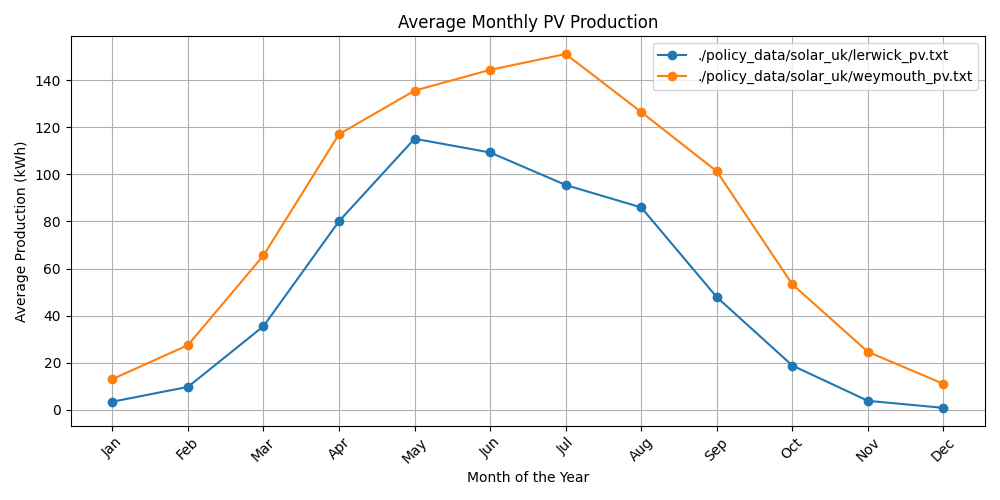
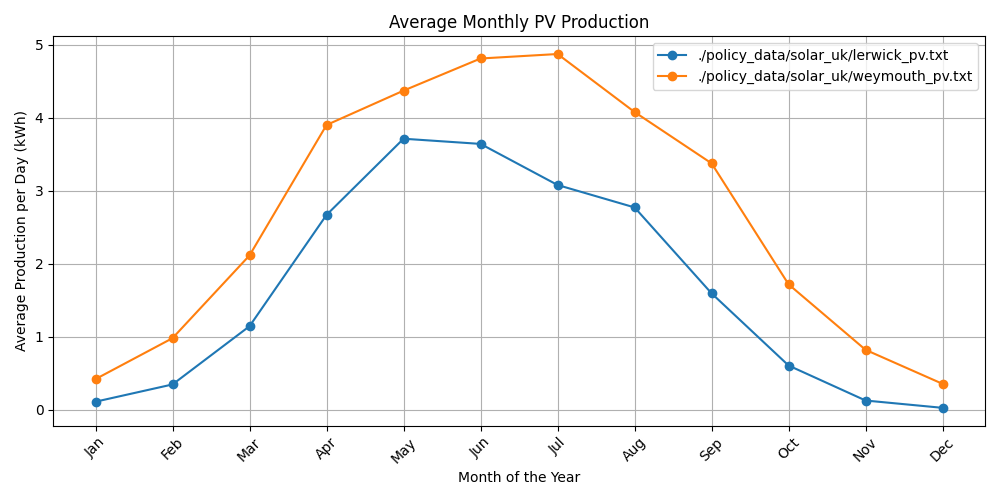
Plot solar trace

diff --git a/policy_data/Solar_UK/plot.py b/policy_data/Solar_UK/plot.py
@@ -31,7 +31,7 @@ def read_and_process_monthly(file_path):
     start_idx = 0
     for days in days_in_month:
         end_idx = start_idx + days
-        monthly_averages.append(np.sum(data[start_idx * 24:end_idx * 24]))  # Average over the month
+        monthly_averages.append(np.sum(data[start_idx * 24:end_idx * 24])/days)  # Average over the month
         start_idx = end_idx  # Move to the next month
     
     return total_pv_generation, monthly_averages
@@ -62,7 +62,7 @@ def analyze_and_plot_monthly(solar_files):
     
     plt.title('Average Monthly PV Production')
     plt.xlabel('Month of the Year')
-    plt.ylabel('Average Production (kWh)')
+    plt.ylabel('Average Production per Day (kWh)')
     plt.xticks(range(12), labels=[f'{month}' for month in ["Jan", "Feb", "Mar", "Apr", "May", "Jun", "Jul", "Aug", "Sep", "Oct", "Nov", "Dec"]], rotation=45)
     plt.grid(True)
     plt.legend()
